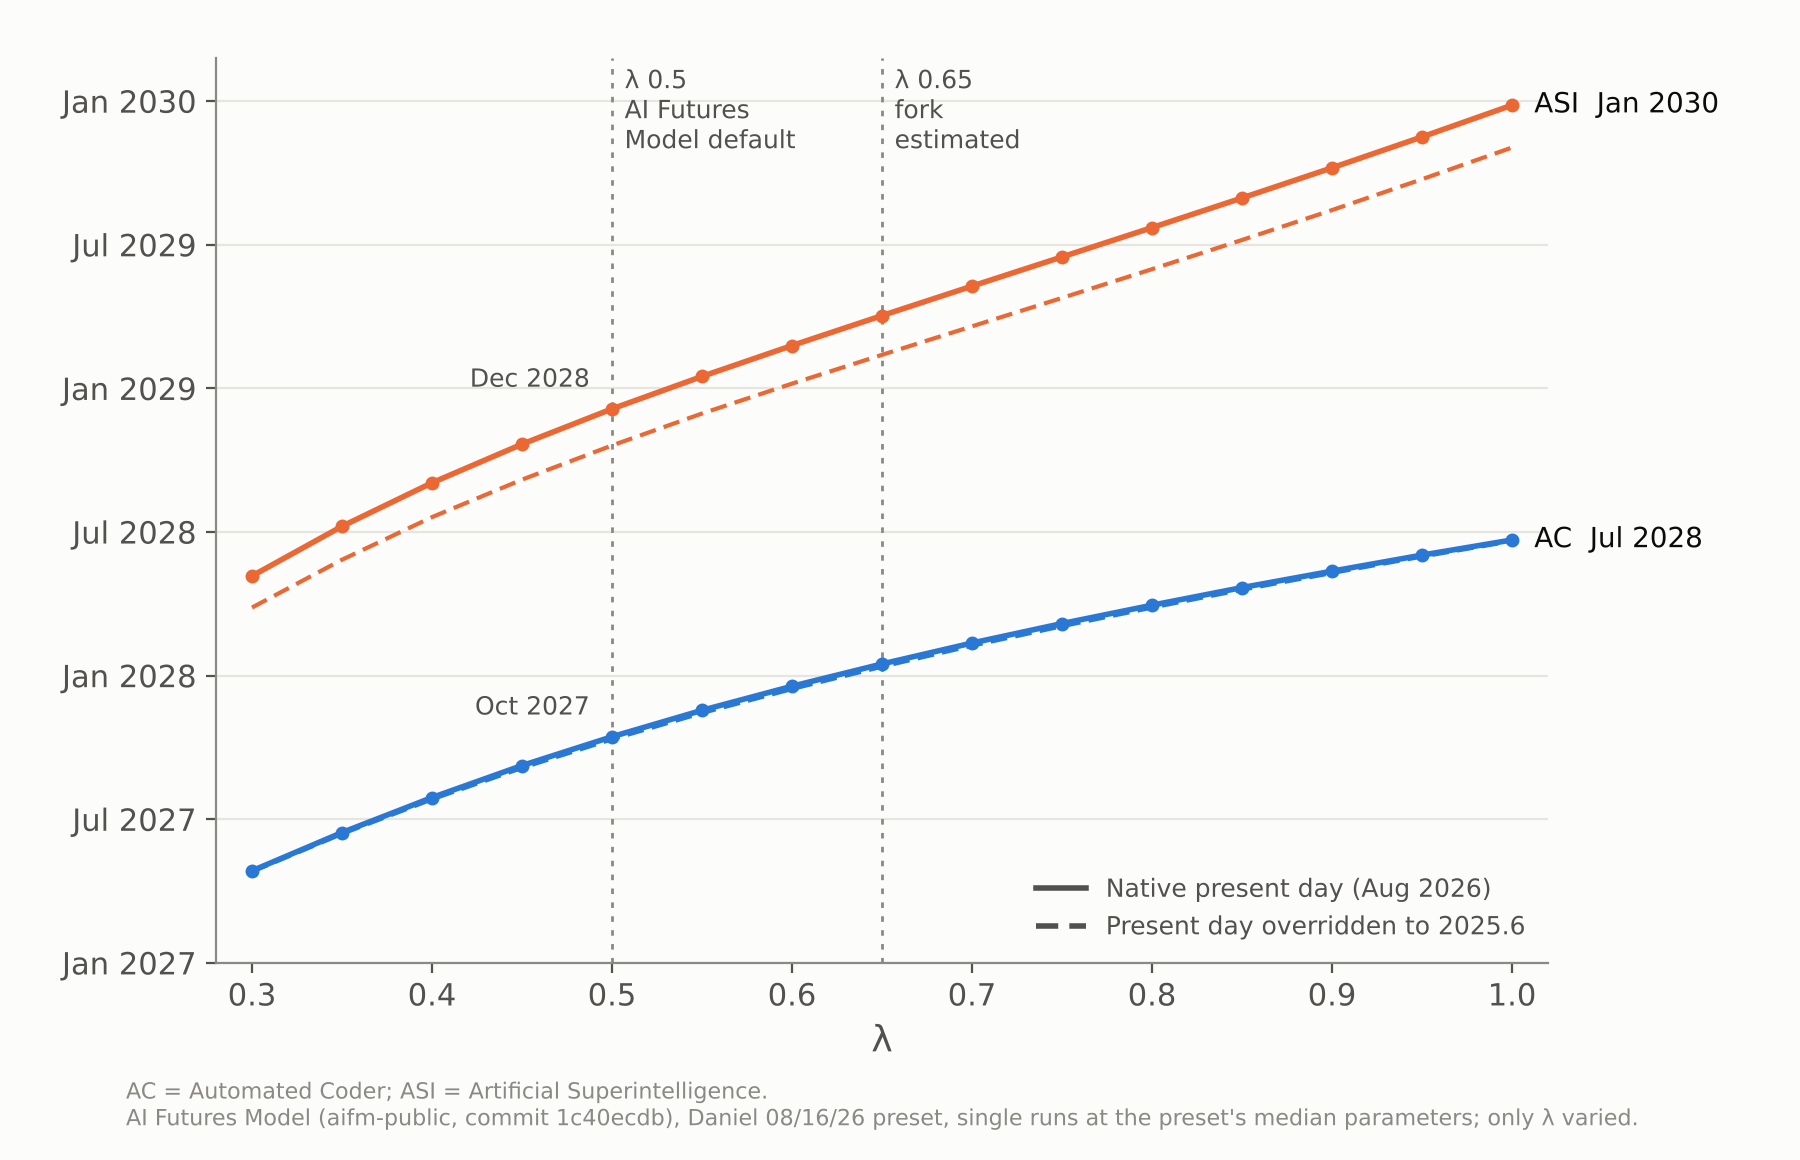
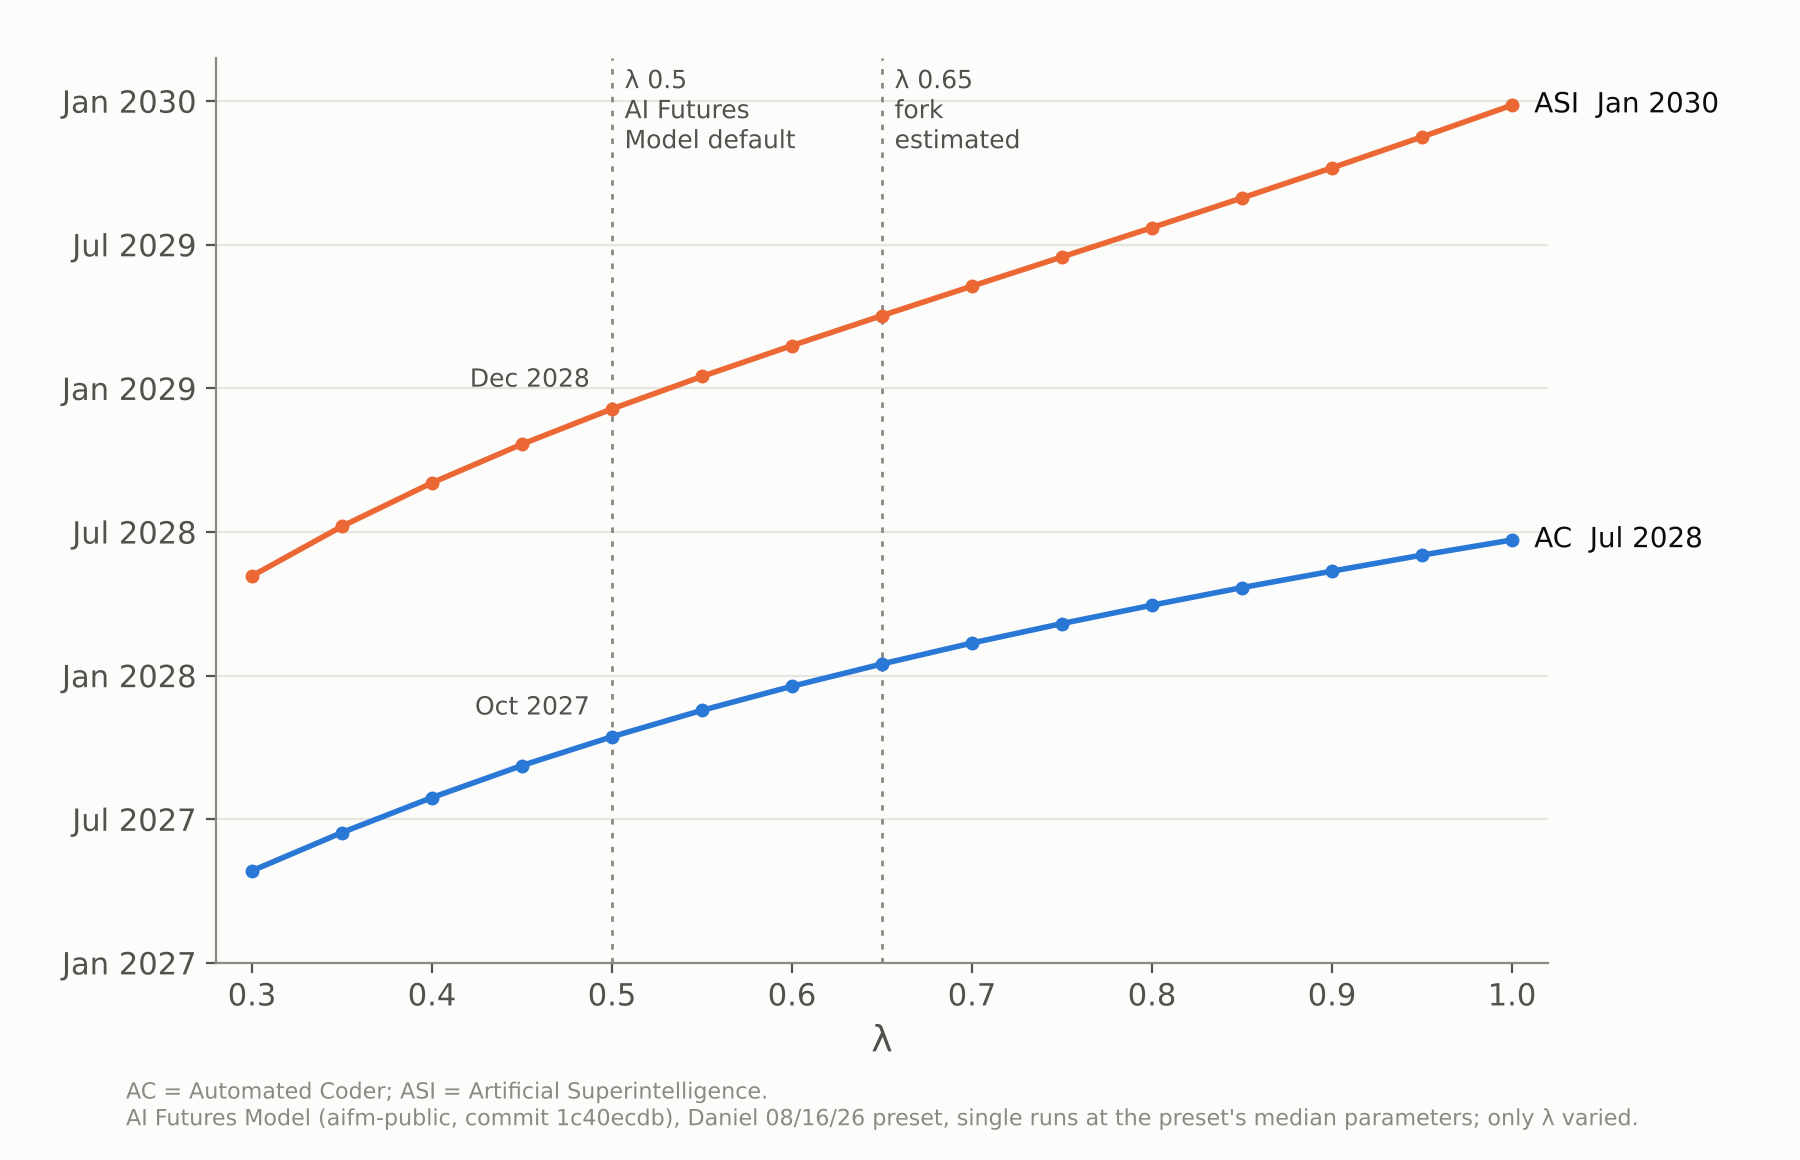
Draw the λ-sweep dates at the preset's own present day only

diff --git a/figures/lambda_sweep/plot.py b/figures/lambda_sweep/plot.py
@@ -1,7 +1,6 @@
 import csv, matplotlib
 matplotlib.use('Agg')
 import matplotlib.pyplot as plt
-from matplotlib.lines import Line2D
 S, T1, T2, MUTED, GRID = '#fcfcfb', '#0b0b0b', '#52514e', '#8a8984', '#e6e5e0'
 C1, C2 = '#2a78d6', '#eb6834'
 plt.rcParams.update({'font.family':'DejaVu Sans','font.size':11,'axes.edgecolor':MUTED,
@@ -28,11 +27,6 @@ def guides(ax, ytop):
         ax.axvline(x, color=MUTED, lw=1, ls=(0,(2,3)), zorder=1)
         ax.text(x+0.007, ytop, lab, fontsize=9, color=T2, va='top', ha='left')
 
-def legend(ax):
-    h = [Line2D([],[],color=T2,lw=2,label='Native present day (Aug 2026)'),
-         Line2D([],[],color=T2,lw=2,ls=(0,(4,2)),label='Present day overridden to 2025.6')]
-    ax.legend(handles=h, loc='lower right', frameon=False, fontsize=9, labelcolor=T2)
-
 FOOT = ("AC = Automated Coder; ASI = Artificial Superintelligence.\n"
         "AI Futures Model (aifm-public, commit 1c40ecdb), Daniel 08/16/26 preset, single runs at the preset's median parameters; only λ varied.")
 
@@ -41,14 +35,12 @@ fig, ax = plt.subplots(figsize=(9,5.8)); fig.subplots_adjust(left=0.12, right=0.
 for key, c, name in [('ac_year',C1,'AC'),('asi_year',C2,'ASI')]:
     x,y = series('native',key); ax.plot(x,y,color=c,lw=2,marker='o',ms=4,zorder=3)
     ax.annotate(f"{name}  {ylab(y[-1])}", (x[-1],y[-1]), xytext=(8,0), textcoords='offset points', va='center', color=T1, fontsize=10)
-    x2,y2 = series('present day 2025.6',key); ax.plot(x2,y2,color=c,lw=1.5,ls=(0,(4,2)),zorder=2)
 yt = [2027.0,2027.5,2028.0,2028.5,2029.0,2029.5,2030.0]
 ax.set_yticks(yt); ax.set_yticklabels([ylab(v) for v in yt]); ax.set_ylim(2027.0, 2030.15)
 guides(ax, 2030.12)
 for key,name in [('ac_year','AC'),('asi_year','ASI')]:
     _,y = series('native',key)
     ax.annotate(ylab(y[4]), (0.5,y[4]), xytext=(-8,8), textcoords='offset points', ha='right', fontsize=9, color=T2)
-legend(ax)
 base(ax, 'Higher λ pushes both AC and ASI later in the AI Futures Model',
      'Date of Automated Coder (AC) and Artificial Superintelligence (ASI) versus λ')
 fig.text(0.07, 0.03, FOOT, fontsize=8, color=MUTED, ha='left')
@@ -61,10 +53,8 @@ for key, c, name in [('months_aug2026_to_ac',C1,'Aug 2026 → AC'),('months_ac_t
     ax.annotate(f"{name}\n{y[-1]:.1f} mo", (x[-1],y[-1]), xytext=(8,0), textcoords='offset points', va='center', color=T1, fontsize=10)
     off = (-6,6) if key.startswith('months_aug') else (-6,-12)
     ax.annotate(f"{y[4]:.1f}", (0.5,y[4]), xytext=off, textcoords='offset points', ha='right' if off[0]<0 else 'left', fontsize=9, color=T2)
-    x2,y2 = series('present day 2025.6',key); ax.plot(x2,y2,color=c,lw=1.5,ls=(0,(4,2)),zorder=2)
 ax.set_ylim(0, 26); ax.set_ylabel('Months')
 guides(ax, 25.8)
-legend(ax)
 base(ax, 'Higher λ lengthens both the wait for AC and the AC → ASI takeoff',
      'Months from Aug 2026 to AC, and months from AC to ASI, versus λ')
 fig.text(0.07, 0.03, FOOT, fontsize=8, color=MUTED, ha='left')

diff --git a/figures/README.md b/figures/README.md
@@ -33,7 +33,7 @@ With no overrides the patched model gives upstream's results exactly. The bar ch
 ## The figures
 
 **`lambda_sweep/`**: the unmodified model with λ varied from 0.3 to 1.
-- `lambda-sweep-dates.png`: AC and ASI dates against λ, Daniel preset, at the native present day and at present day 2025.6. `lambda-sweep-durations.png` shows the same runs as time from today to AC and AC to ASI.
+- `lambda-sweep-dates.png`: AC and ASI dates against λ, Daniel preset, at the preset's own present day. `lambda-sweep-durations.png` shows the same runs as time from today to AC and AC to ASI.
 - `lambda-sweep-dates-presets.png`: the same for the Daniel, Eli and Brendan presets.
 - `lambda-sweep-dates-anchors.png`: 3 presets × 3 AC anchors (Coding Uplift, Time Horizon, Revenue).
 - `lambda-sweep-dates-anchors-low.png`: the same down to λ 0.03, under the model's η adjustment, the linear correction and no adjustment.
